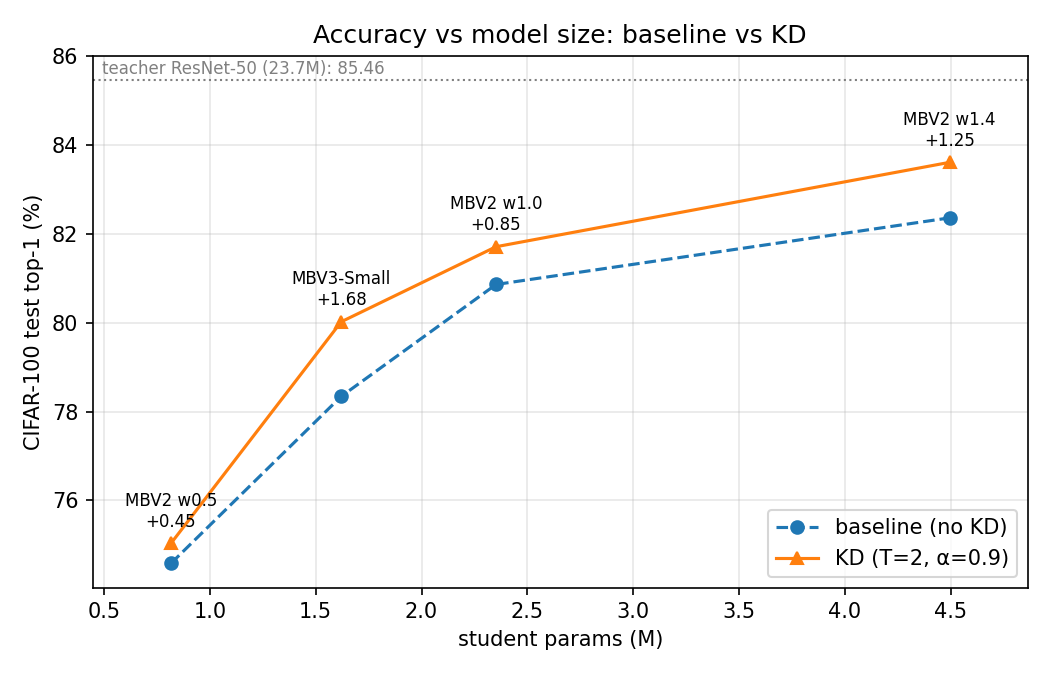
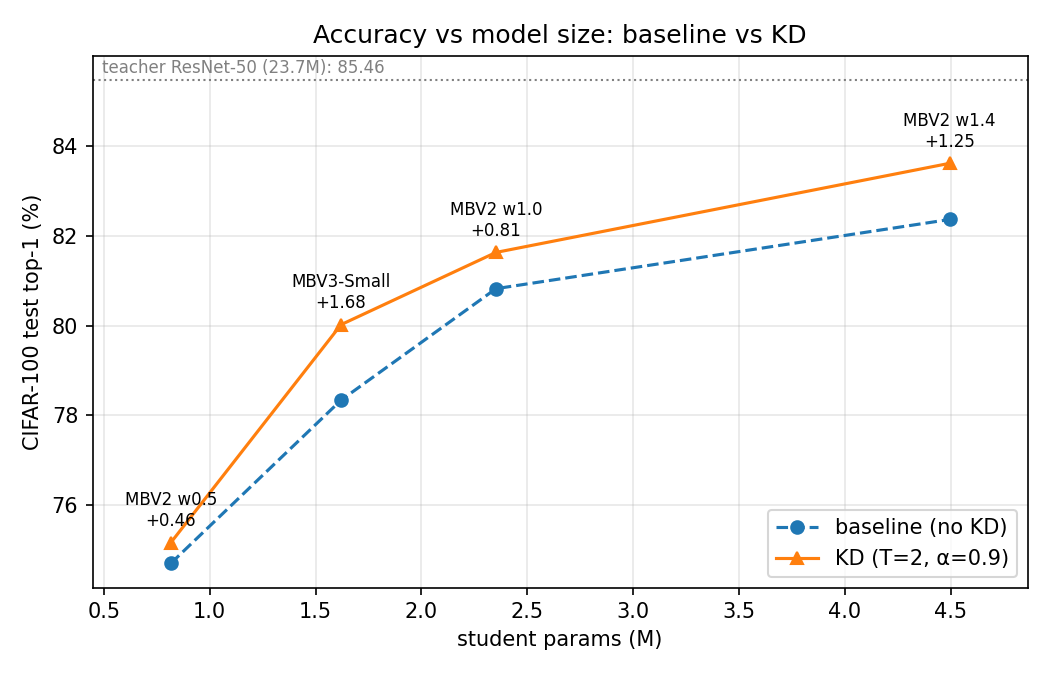
Seed check (w0.5, w1.0): 3-seed means, per-seed paired gains; updated figures and docs

diff --git a/README.md b/README.md
@@ -124,19 +124,22 @@ Phone latency is measured with TFLite `benchmark_model` through `adb` (see `scri
 | `scripts/benchmark.py` | Params / FLOPs / file size (+ on-device latency via adb) |
 | `scripts/queue_night3.*`, `queue_exp4.py`, `queue_seeds.py`, `sweep*.{py,ps1}`, `overnight_night1.ps1`, `pretrained_baselines.ps1` | v1 history (test-selected protocol); not used for headline results |
 
-## Results so far (CIFAR-100, v2, test top-1, single seed)
+## Results so far (CIFAR-100, v2, test top-1; mean over seeds where n > 1)
 
-| Model | Params (M) | Baseline | KD (T=2, alpha=0.9) | Gain (pp) |
-|---|---|---|---|---|
-| ResNet-50 (teacher) | 23.71 | 85.46 | — | — |
-| MobileNetV2 w0.5 | 0.82 | 74.58 | 75.03 | +0.45 |
-| MobileNetV3-Small | 1.62 | 78.34 | 80.02 | +1.68 |
-| MobileNetV2 w1.0 | 2.35 | 80.86 | 81.71 | +0.85 |
-| MobileNetV2 w1.4 | 4.50 | 82.36 | 83.61 | +1.25 |
+| Model | Params (M) | Seeds | Baseline | KD (T=2, alpha=0.9) | Gain (pp) |
+|---|---|---|---|---|---|
+| ResNet-50 (teacher) | 23.71 | 1 | 85.46 | — | — |
+| MobileNetV2 w0.5 | 0.82 | 3 | 74.71 ± 0.16 | 75.17 ± 0.15 | +0.46 |
+| MobileNetV3-Small | 1.62 | 1 | 78.34 | 80.02 | +1.68 |
+| MobileNetV2 w1.0 | 2.35 | 3 | 80.82 ± 0.07 | 81.63 ± 0.18 | +0.81 |
+| MobileNetV2 w1.4 | 4.50 | 1 | 82.36 | 83.61 | +1.25 |
 
-Gains are small (about 0.5–1.7 pp) and from one seed; differences of this size can be seed noise, so they are
-indicative only. The gain also grows with width inside MobileNetV2, but optimizer (AdamW for w0.5 / MBV3-S, SGD for
-w1.0 / w1.4, each chosen on val) and architecture are mixed with size, so size alone cannot be credited. The final tables and figures are produced by `scripts/plot_results.py`
+Per-seed paired gains (seeds 42 / 0 / 1): w0.5 +0.45 / +0.44 / +0.49, w1.0 +0.85 / +0.89 / +0.68, i.e. small but
+positive for every seed. w1.4 and MobileNetV3-Small are still single-seed. The gain grows with width inside
+MobileNetV2, but optimizer (AdamW for w0.5 / MBV3-S, SGD for w1.0 / w1.4, each chosen on val) and architecture are
+mixed with size, so size alone cannot be credited. The final tables and figures are produced by
+`scripts/plot_results.py` (`results/summary_table_v2.csv`, `results/figures/`). On-device latency and PlantVillage
+results are still to come (see `task.md`). The final tables and figures are produced by `scripts/plot_results.py`
 (`results/summary_table_v2.csv`, `results/figures/`). On-device latency and PlantVillage results are still to come
 (see `task.md`).
 

diff --git a/task.md b/task.md
@@ -64,7 +64,7 @@ Preliminary v1 trend (test-selected, optimistic): KD gain ≈ 0 on w0.5 (3 seeds
 ### Phase 2 — KD on every student (Pareto data) ✅
 - [x] `scripts\queue_v2_exp4.ps1` finished 25 Oct (2.1 h, 7 runs, no failures): KD (T2, α0.9) on w0.5 / w1.4 / MBV3-S + alpha probe (α 0.1, 0.5 at T2 on w0.5 and w1.4; discussion only). Files: `results/kd_gain_v2.csv`, `results/alpha_probe_v2.csv`
 - Alpha probe (test gain vs baseline, pp, single seed; α = 0.1 / 0.5 / 0.9): w0.5 +0.32 / +0.40 / +0.45 · w1.0 +0.52 / +1.06 / +0.85 · w1.4 +0.28 / +1.53 / +1.25. α = 0.5 is slightly better than the common α = 0.9 on w1.0 and w1.4 (val agrees: w1.4 +1.04 vs +1.00), but the 0.2–0.3 pp difference is within noise; α = 0.1 is clearly weakest on the larger students; w0.5 is flat and small. Decision stays: common T2 / α0.9 (mention as a limitation)
-- [ ] Optional: `python scripts/queue_v2_exp4.py --seeds` → seeds 0, 1 for baseline + KD on w0.5, w1.0 (~1.7 h) to show gain vs seed noise
+- [x] Seed check done 25 Oct (`scripts\queue_v2_seeds.ps1`, 8 runs, 1.9 h): seeds 42 / 0 / 1 on w0.5 and w1.0. Baseline vs KD test (mean ± std): w0.5 74.71 ± 0.16 -> 75.17 ± 0.15 (gain +0.46; per seed +0.45 / +0.44 / +0.49); w1.0 80.82 ± 0.07 -> 81.63 ± 0.18 (gain +0.81; per seed +0.85 / +0.89 / +0.68). Gains are small but positive for every seed and larger than seed spread (~0.1–0.2 pp) -> likely real, for these two students. This replaces the earlier v1 impression that w0.5 gains ≈ 0. w1.4 and MBV3-S remain single seed (optional: `--seeds --seed-students w1.4 mbv3s`, ~1.3 h)
 
 ### Phase 3 — Plots & tables
 - [x] `scripts/plot_results.py` rewritten for v2 and run on the final data -> `pareto_v2.png`, `kd_gain_v2.png`, `heatmap_v2.png`, `alpha_probe_v2.png`, `results/summary_table_v2.csv`
